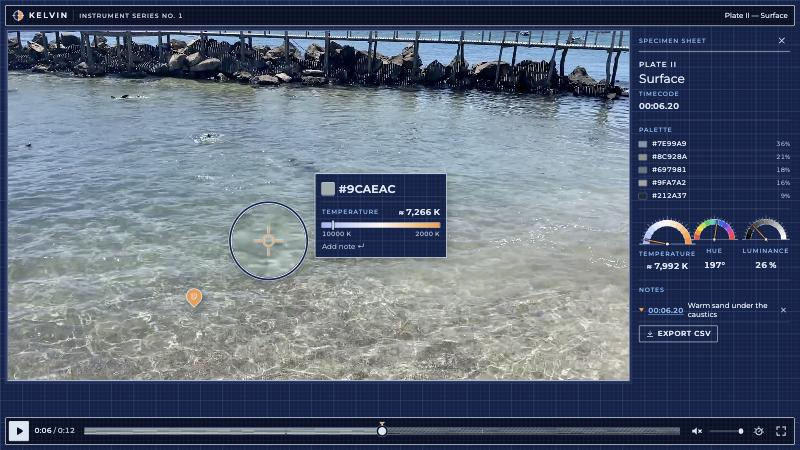
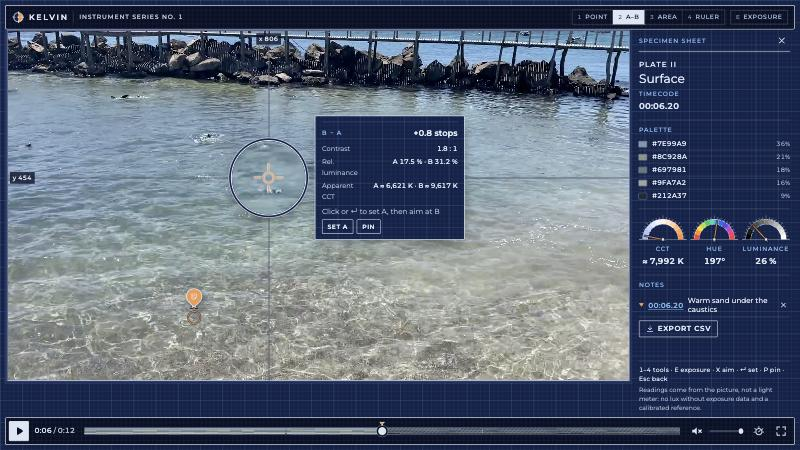
Sync the measurement tools into the site and refresh the home cover

diff --git a/components/kelvin/video/kelvin/loupe.tsx b/components/kelvin/video/kelvin/loupe.tsx
@@ -7,7 +7,7 @@ import { useCallback, useEffect, useLayoutEffect, useRef, useState, type Keyboar
 import { Crosshair } from './crosshair';
 import { IconNote } from './icons';
 import { EXPOSURE_PALETTE, falseColor } from './lib/exposure';
-import { areaStats, deltaStops, linearRatio, rect, relLum, rulerLength, type AreaStats } from './lib/measure';
+import { areaStats, deltaStops, formatRatio, formatStops, linearRatio, rect, relLum, rulerLength, type AreaStats } from './lib/measure';
 import { formatLength, makeScale, type Unit } from './lib/scale';
 import { MeasureOverlay } from './measure-overlay';
 import { cctReading, formatCct, toHex } from './lib/color';
@@ -112,23 +112,6 @@ export function Loupe() {
       }
     } else setArea(null);
 
-    // Exposure map: the paused frame in false colour, at most 640 px wide.
-    const ex = exposureRef.current;
-    if (mode.exposure && ex) {
-      try {
-        const img = readRegion(video, { u: 0, v: 0, w: 1, h: 1 }, 640);
-        if (img) {
-          const fc = falseColor(img, EXPOSURE_PALETTE);
-          ex.width = fc.width;
-          ex.height = fc.height;
-          ex.getContext("2d")?.putImageData(new ImageData(new Uint8ClampedArray(fc.data), fc.width, fc.height), 0, 0);
-        }
-        setExposureBlocked(false);
-      } catch {
-        setExposureBlocked(true);
-      }
-    }
-
     const canvas = magRef.current;
     const context = canvas?.getContext('2d');
     if (canvas && context && video.videoWidth) {
@@ -151,7 +134,30 @@ export function Loupe() {
         /* drawing an unready frame can throw in some engines; the tag still shows the state */
       }
     }
-  }, [active, u, v, frame, getVideo, rootRef, mode.anchor, mode.drag, mode.tool, mode.exposure]);
+  }, [active, u, v, frame, getVideo, rootRef, mode.anchor, mode.drag, mode.tool]);
+
+  // The exposure map only changes with the frame, not with the reticle.
+  useLayoutEffect(() => {
+    const video = getVideo();
+    if (!active || !video) return;
+    // The paused frame in false colour, at most 640 px wide.
+    const ex = exposureRef.current;
+    if (mode.exposure && ex) {
+      try {
+        const img = readRegion(video, { u: 0, v: 0, w: 1, h: 1 }, 640);
+        if (img) {
+          const fc = falseColor(img, EXPOSURE_PALETTE);
+          ex.width = fc.width;
+          ex.height = fc.height;
+          ex.getContext("2d")?.putImageData(new ImageData(new Uint8ClampedArray(fc.data), fc.width, fc.height), 0, 0);
+        }
+        setExposureBlocked(false);
+      } catch {
+        setExposureBlocked(true);
+      }
+    }
+
+  }, [active, frame, mode.exposure, exposureBlocked, getVideo]);
 
   const hex = reading.status === 'ok' ? toHex(reading.rgb) : null;
   const cctR = reading.status === 'ok' ? cctReading(reading.rgb) : null;
@@ -272,6 +278,8 @@ export function Loupe() {
 
   const onKeyDown = useCallback(
     (event: KeyboardEvent<HTMLDivElement>) => {
+      // Keys pressed on buttons or fields inside the tag belong to them, not to the tool.
+      if (event.target !== event.currentTarget) return;
       if (noteOpen || routeKey(mode, event.key) !== 'loupe') return;
       event.preventDefault();
       event.stopPropagation();
@@ -391,14 +399,11 @@ export function Loupe() {
         {labels.loupeHint}
       </span>
 
-      {mode.exposure ? (
-        exposureBlocked ? (
-          <p className="kv-exposure-blocked" style={{ left: layout.pic.left + 8, top: layout.pic.top + 8 }}>
-            {labels.exposure}: {labels.readingUnavailable}
-          </p>
-        ) : (
-          <canvas ref={exposureRef} className="kv-exposure" style={layout.pic} aria-hidden="true" />
-        )
+      {mode.exposure ? <canvas ref={exposureRef} className="kv-exposure" style={layout.pic} aria-hidden="true" /> : null}
+      {mode.exposure && exposureBlocked ? (
+        <p className="kv-exposure-blocked" style={{ left: layout.pic.left + 8, top: layout.pic.top + 8 }}>
+          {labels.exposure}: {labels.readingUnavailable}
+        </p>
       ) : null}
 
       <Crosshair box={layout.pic} x={layout.x} y={layout.y} videoWidth={layout.vw} videoHeight={layout.vh} />
@@ -451,58 +456,7 @@ export function Loupe() {
         data-flip-y={flipY ? '' : undefined}
         style={{ left: layout.x, top: layout.y }}
       >
-        {reading.status !== 'ok' ? (
-          <p className="kv-tag-note">{reading.status === 'blocked' ? labels.readingUnavailable : labels.readingPending}</p>
-        ) : mode.tool === 'compare' && compare && cctA ? (
-          <>
-            <div className="kv-tag-row kv-tag-k">
-              <span className="kv-tag-label">{labels.deltaStops}</span>
-              <span className="kv-tag-value">
-                {compare.stops.floored ? '≥ ' : ''}
-                {Math.abs(compare.stops.stops) < 0.05 ? '' : compare.stops.stops > 0 ? '+' : '−'}
-                {Math.abs(compare.stops.stops).toFixed(1)} stops
-              </span>
-            </div>
-            <dl className="kv-tag-grid">
-              <dt>{labels.contrast}</dt>
-              <dd>
-                {compare.ratio.floored ? '≥ ' : ''}
-                {compare.ratio.ratio.toFixed(1)} : 1
-              </dd>
-              <dt>{labels.relLum}</dt>
-              <dd>
-                A {lumA!.toFixed(1)} % · B {lumB!.toFixed(1)} %
-              </dd>
-              <dt>{labels.temperature}</dt>
-              <dd>
-                A {formatCct(cctA, labels)} · B {cctText}
-              </dd>
-            </dl>
-          </>
-        ) : mode.tool === 'area' && area === 'blocked' ? (
-          <p className="kv-tag-note">{labels.readingUnavailable}</p>
-        ) : mode.tool === 'area' && area && area !== 'blocked' ? (
-          <>
-            <div className="kv-tag-row">
-              <span className="kv-swatch" style={{ background: area.meanHex }} aria-hidden="true" />
-              <span className="kv-tag-hex">{area.meanHex}</span>
-            </div>
-            <dl className="kv-tag-grid">
-              <dt>{labels.uniformity}</dt>
-              <dd>{area.u0.toFixed(2)}</dd>
-              <dt>
-                {labels.relLum} · {labels.mean}
-              </dt>
-              <dd>{area.mean.toFixed(1)} %</dd>
-              <dt>{labels.minMax}</dt>
-              <dd>
-                {area.min.toFixed(1)} – {area.max.toFixed(1)} %
-              </dd>
-              <dt>{labels.temperature}</dt>
-              <dd>{formatCct(area.cct, labels)}</dd>
-            </dl>
-          </>
-        ) : mode.tool === 'ruler' && ruler ? (
+        {mode.tool === 'ruler' && ruler ? (
           <>
             <div className="kv-tag-row kv-tag-k">
               <span className="kv-tag-label">{labels.length}</span>
@@ -551,6 +505,50 @@ export function Loupe() {
                 ) : null}
               </div>
             )}
+          </>
+        ) : reading.status !== 'ok' ? (
+          <p className="kv-tag-note">{reading.status === 'blocked' ? labels.readingUnavailable : labels.readingPending}</p>
+        ) : mode.tool === 'compare' && compare && cctA ? (
+          <>
+            <div className="kv-tag-row kv-tag-k">
+              <span className="kv-tag-label">{labels.deltaStops}</span>
+              <span className="kv-tag-value">{formatStops(compare.stops)}</span>
+            </div>
+            <dl className="kv-tag-grid">
+              <dt>{labels.contrast}</dt>
+              <dd>{formatRatio(compare.ratio)}</dd>
+              <dt>{labels.relLum}</dt>
+              <dd>
+                A {lumA!.toFixed(1)} % · B {lumB!.toFixed(1)} %
+              </dd>
+              <dt>{labels.temperature}</dt>
+              <dd>
+                A {formatCct(cctA, labels)} · B {cctText}
+              </dd>
+            </dl>
+          </>
+        ) : mode.tool === 'area' && area === 'blocked' ? (
+          <p className="kv-tag-note">{labels.readingUnavailable}</p>
+        ) : mode.tool === 'area' && area && area !== 'blocked' ? (
+          <>
+            <div className="kv-tag-row">
+              <span className="kv-swatch" style={{ background: area.meanHex }} aria-hidden="true" />
+              <span className="kv-tag-hex">{area.meanHex}</span>
+            </div>
+            <dl className="kv-tag-grid">
+              <dt>{labels.uniformity}</dt>
+              <dd>{area.u0.toFixed(2)}</dd>
+              <dt>
+                {labels.relLum} · {labels.mean}
+              </dt>
+              <dd>{area.mean.toFixed(1)} %</dd>
+              <dt>{labels.minMax}</dt>
+              <dd>
+                {area.min.toFixed(1)} – {area.max.toFixed(1)} %
+              </dd>
+              <dt>{labels.temperature}</dt>
+              <dd>{formatCct(area.cct, labels)}</dd>
+            </dl>
           </>
         ) : (
           <>

diff --git a/components/kelvin/video/kelvin/lib/pixels.ts b/components/kelvin/video/kelvin/lib/pixels.ts
@@ -40,6 +40,7 @@ export function averagePatch(data: Uint8ClampedArray): RGB | null {
 }
 
 let scratch: HTMLCanvasElement | null = null;
+let bigScratch: HTMLCanvasElement | null = null;
 
 /** Copies a size×size patch of the current frame centred on (u, v). Throws on a tainted canvas. */
 export function readPatch(video: HTMLVideoElement, u: number, v: number, size: number): ImageData | null {
@@ -73,10 +74,11 @@ export function readRegion(
   const k = Math.min(1, max / Math.max(sw, sh));
   const w = Math.max(1, Math.round(sw * k));
   const h = Math.max(1, Math.round(sh * k));
-  scratch ??= document.createElement('canvas');
-  scratch.width = w;
-  scratch.height = h;
-  const context = scratch.getContext('2d', { willReadFrequently: true });
+  // Large reads (the exposure map) get their own canvas so the loupe's small one is not resized every move.
+  const canvas = max > 64 ? (bigScratch ??= document.createElement('canvas')) : (scratch ??= document.createElement('canvas'));
+  canvas.width = w;
+  canvas.height = h;
+  const context = canvas.getContext('2d', { willReadFrequently: true });
   if (!context) return null;
   context.clearRect(0, 0, w, h);
   context.drawImage(video, r.u * video.videoWidth, r.v * video.videoHeight, sw, sh, 0, 0, w, h);

diff --git a/components/kelvin/video/kelvin/lib/measure.ts b/components/kelvin/video/kelvin/lib/measure.ts
@@ -67,3 +67,18 @@ export function rulerLength(a: Pt, b: Pt, vw: number, vh: number): { px: number;
   const px = Math.hypot((b.u - a.u) * vw, (b.v - a.v) * vh);
   return { px: Math.round(px * 10) / 10, pctWidth: vw ? Math.round((px / vw) * 1000) / 10 : 0 };
 }
+
+/** "+1.0 stops"; a floored side turns it into a bound (≥ when A was black, ≤ when B was); both black → "—". */
+export function formatStops(d: { stops: number; floored: boolean }): string {
+  if (d.floored && Math.abs(d.stops) < 0.05) return '—';
+  const sign = Math.abs(d.stops) < 0.05 ? '' : d.stops > 0 ? '+' : '−';
+  const value = `${sign}${Math.abs(d.stops).toFixed(1)} stops`;
+  if (!d.floored) return value;
+  return `${d.stops > 0 ? '≥' : '≤'} ${value}`;
+}
+
+/** "4.0 : 1"; with a black point it is a lower bound; both black → "—". */
+export function formatRatio(r: { ratio: number; floored: boolean }): string {
+  if (r.floored && r.ratio < 1.05) return '—';
+  return `${r.floored ? '≥ ' : ''}${r.ratio.toFixed(1)} : 1`;
+}

diff --git a/components/kelvin/video/kelvin/behaviors.tsx b/components/kelvin/video/kelvin/behaviors.tsx
@@ -5,7 +5,7 @@ import { useEffect } from 'react';
 
 import { VideoGestures } from '../behaviors/gestures';
 import { VideoHotkeys } from '../behaviors/hotkeys';
-import { routeKey, TOOL_KEYS } from './lib/mode';
+import { escapeCloses, routeKey, TOOL_KEYS } from './lib/mode';
 import { useKelvin } from './state';
 
 const isEditable = (el: EventTarget | null) =>
@@ -41,7 +41,7 @@ export function KelvinBehaviors() {
       }
       if (route !== 'escape' || (!mode.sheet && mode.loupe === 'off')) return;
       event.preventDefault();
-      const closing = mode.loupe !== 'keyboard';
+      const closing = escapeCloses(mode);
       dispatch({ type: 'escape' });
       if (closing) root.querySelector<HTMLElement>('.kv-key--play')?.focus();
     };

diff --git a/components/kelvin/video/kelvin/lib/color.ts b/components/kelvin/video/kelvin/lib/color.ts
@@ -17,7 +17,15 @@ export function fromHex(hex: string): RGB {
   };
 }
 
+/** sRGB → linear for every 8-bit value, precomputed (the exposure map calls this per pixel). */
+const LINEAR = Array.from({ length: 256 }, (_, i) => {
+  const c = i / 255;
+  return c <= 0.04045 ? c / 12.92 : ((c + 0.055) / 1.055) ** 2.4;
+});
+
 function toLinear(value: number) {
+  const i = Math.round(value);
+  if (i >= 0 && i <= 255 && i === value) return LINEAR[i]!;
   const c = value / 255;
   return c <= 0.04045 ? c / 12.92 : ((c + 0.055) / 1.055) ** 2.4;
 }

diff --git a/components/kelvin/video/kelvin/lib/mode.ts b/components/kelvin/video/kelvin/lib/mode.ts
@@ -98,3 +98,8 @@ export function routeKey(mode: Mode, key: string): 'loupe' | 'player' | 'escape'
   if (mode.loupe === 'keyboard' && (key in DELTA || key === 'Enter')) return 'loupe';
   return 'player';
 }
+
+/** Whether Escape will close the sheet (so focus should go back to Play), rather than step back one rung. */
+export function escapeCloses(mode: Mode): boolean {
+  return mode.sheet && !mode.drag && !mode.anchor && mode.loupe !== 'keyboard';
+}
